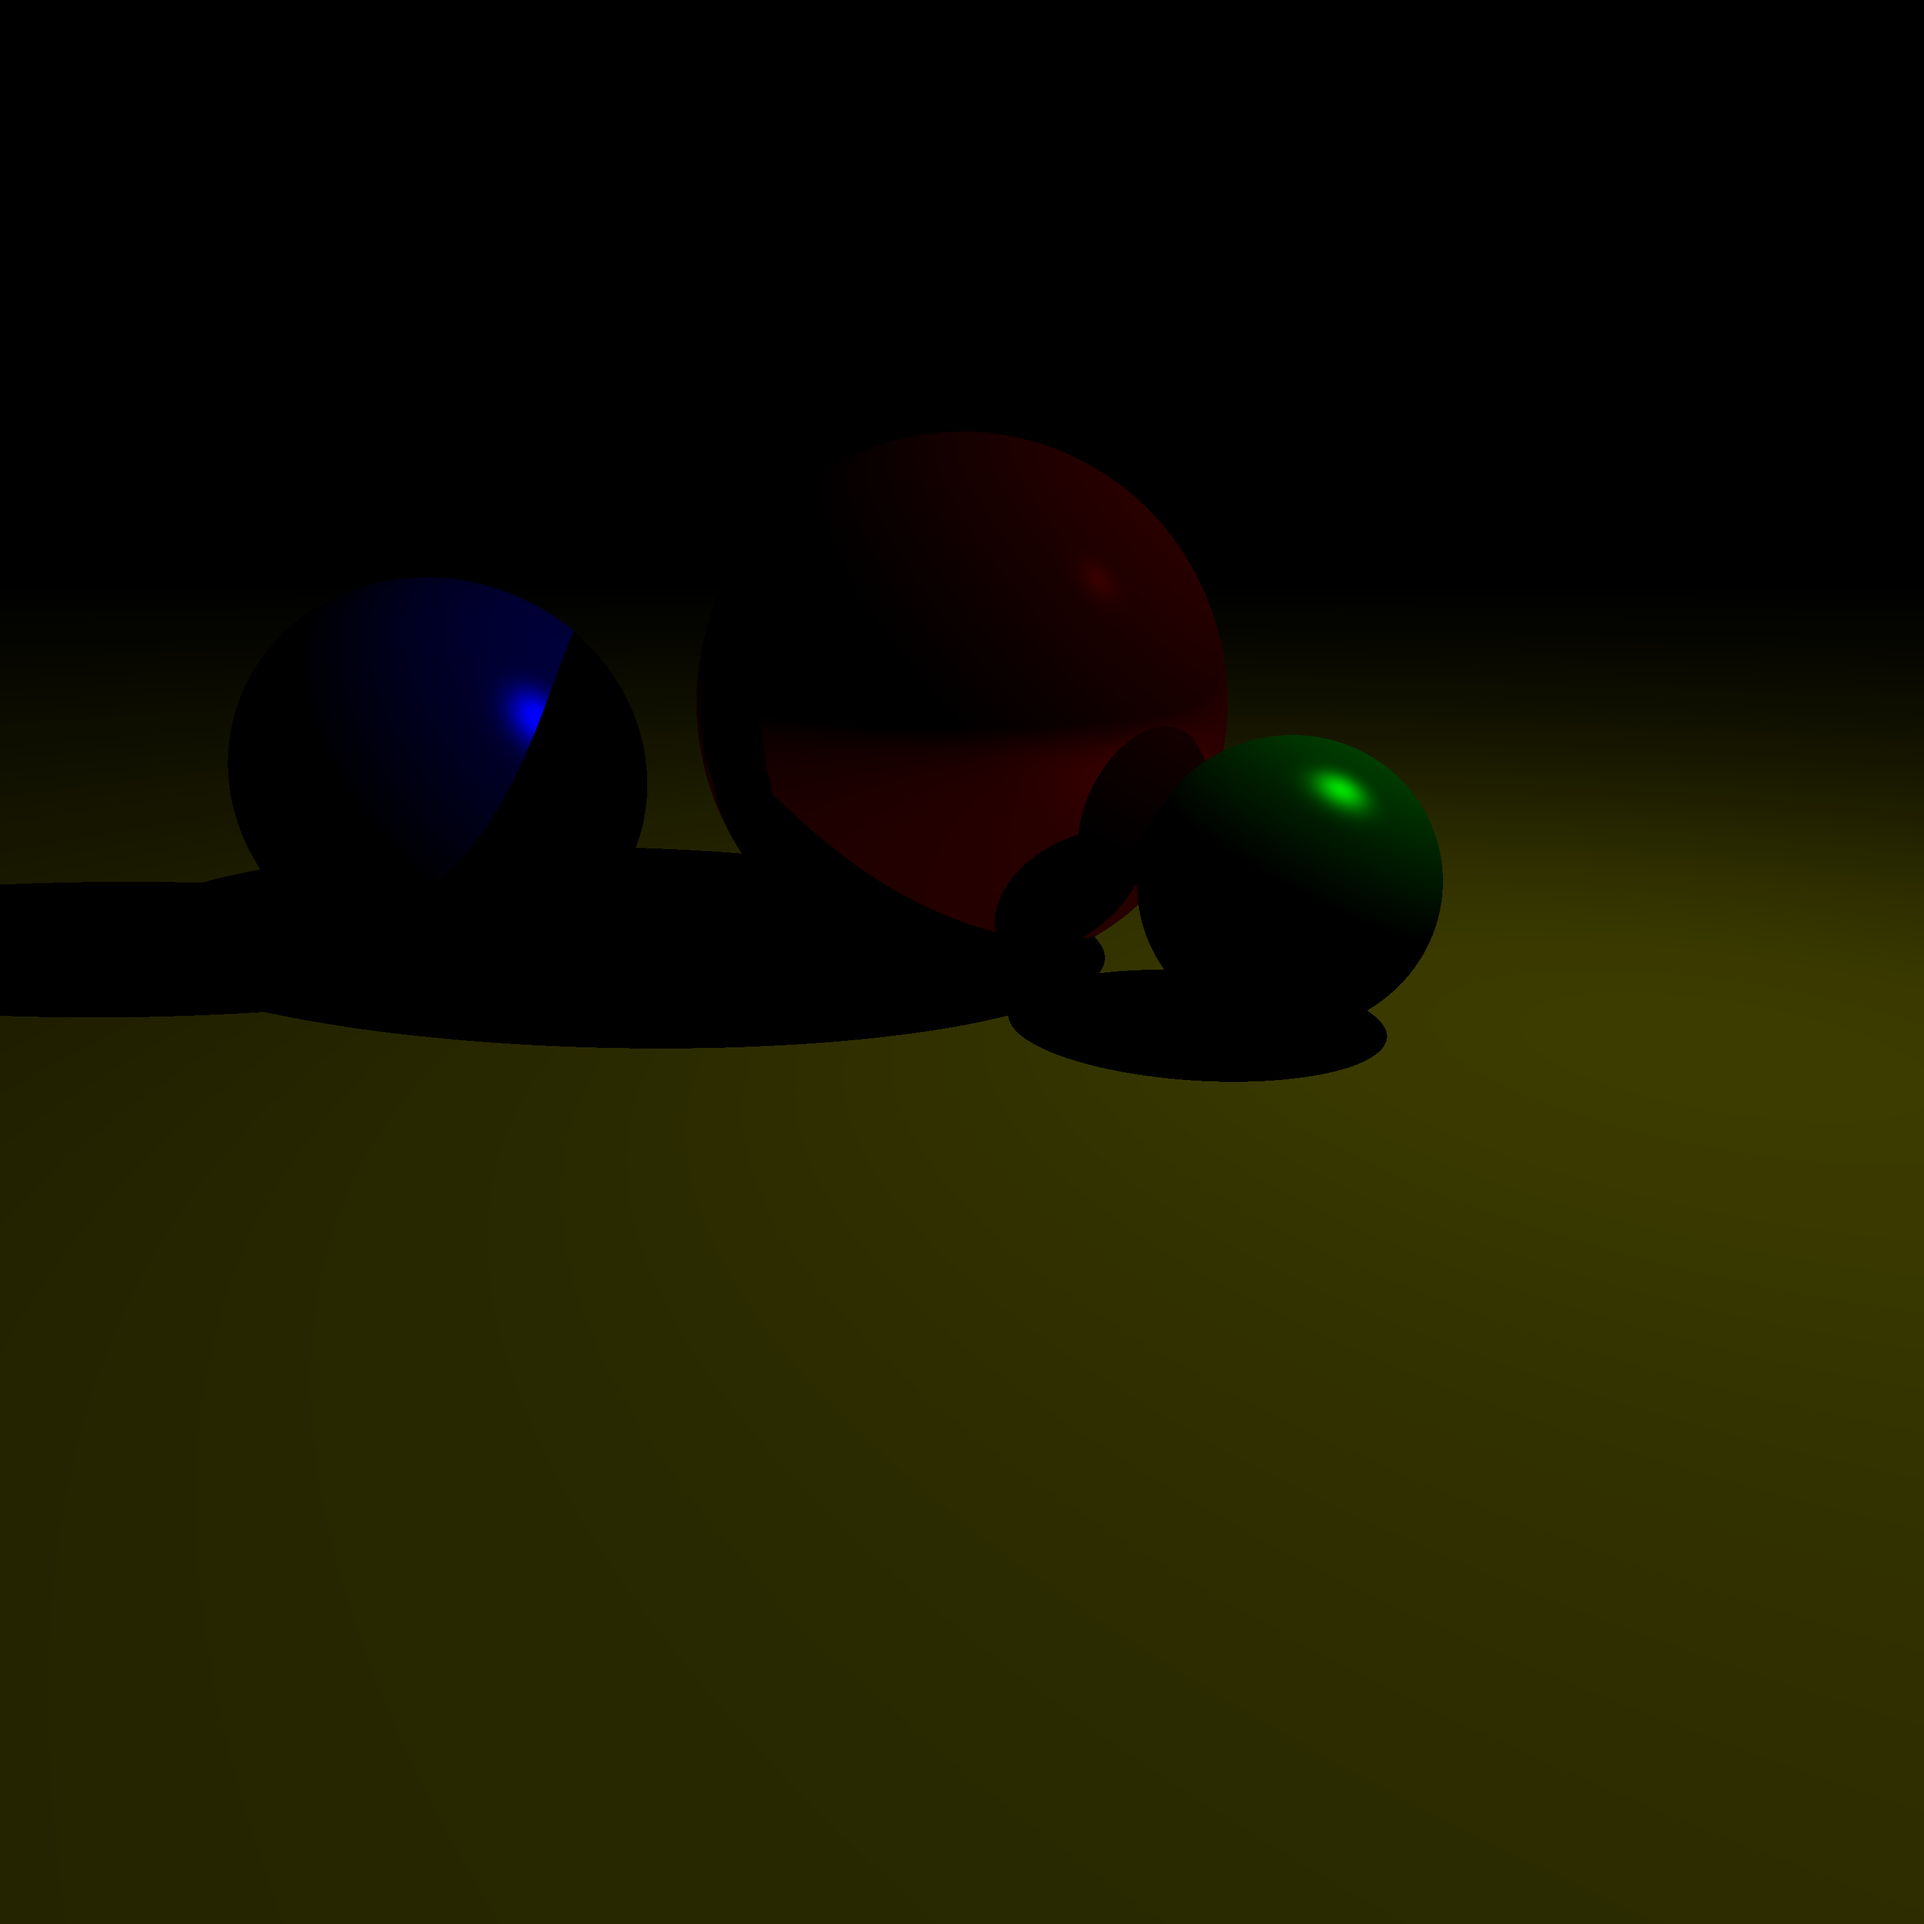
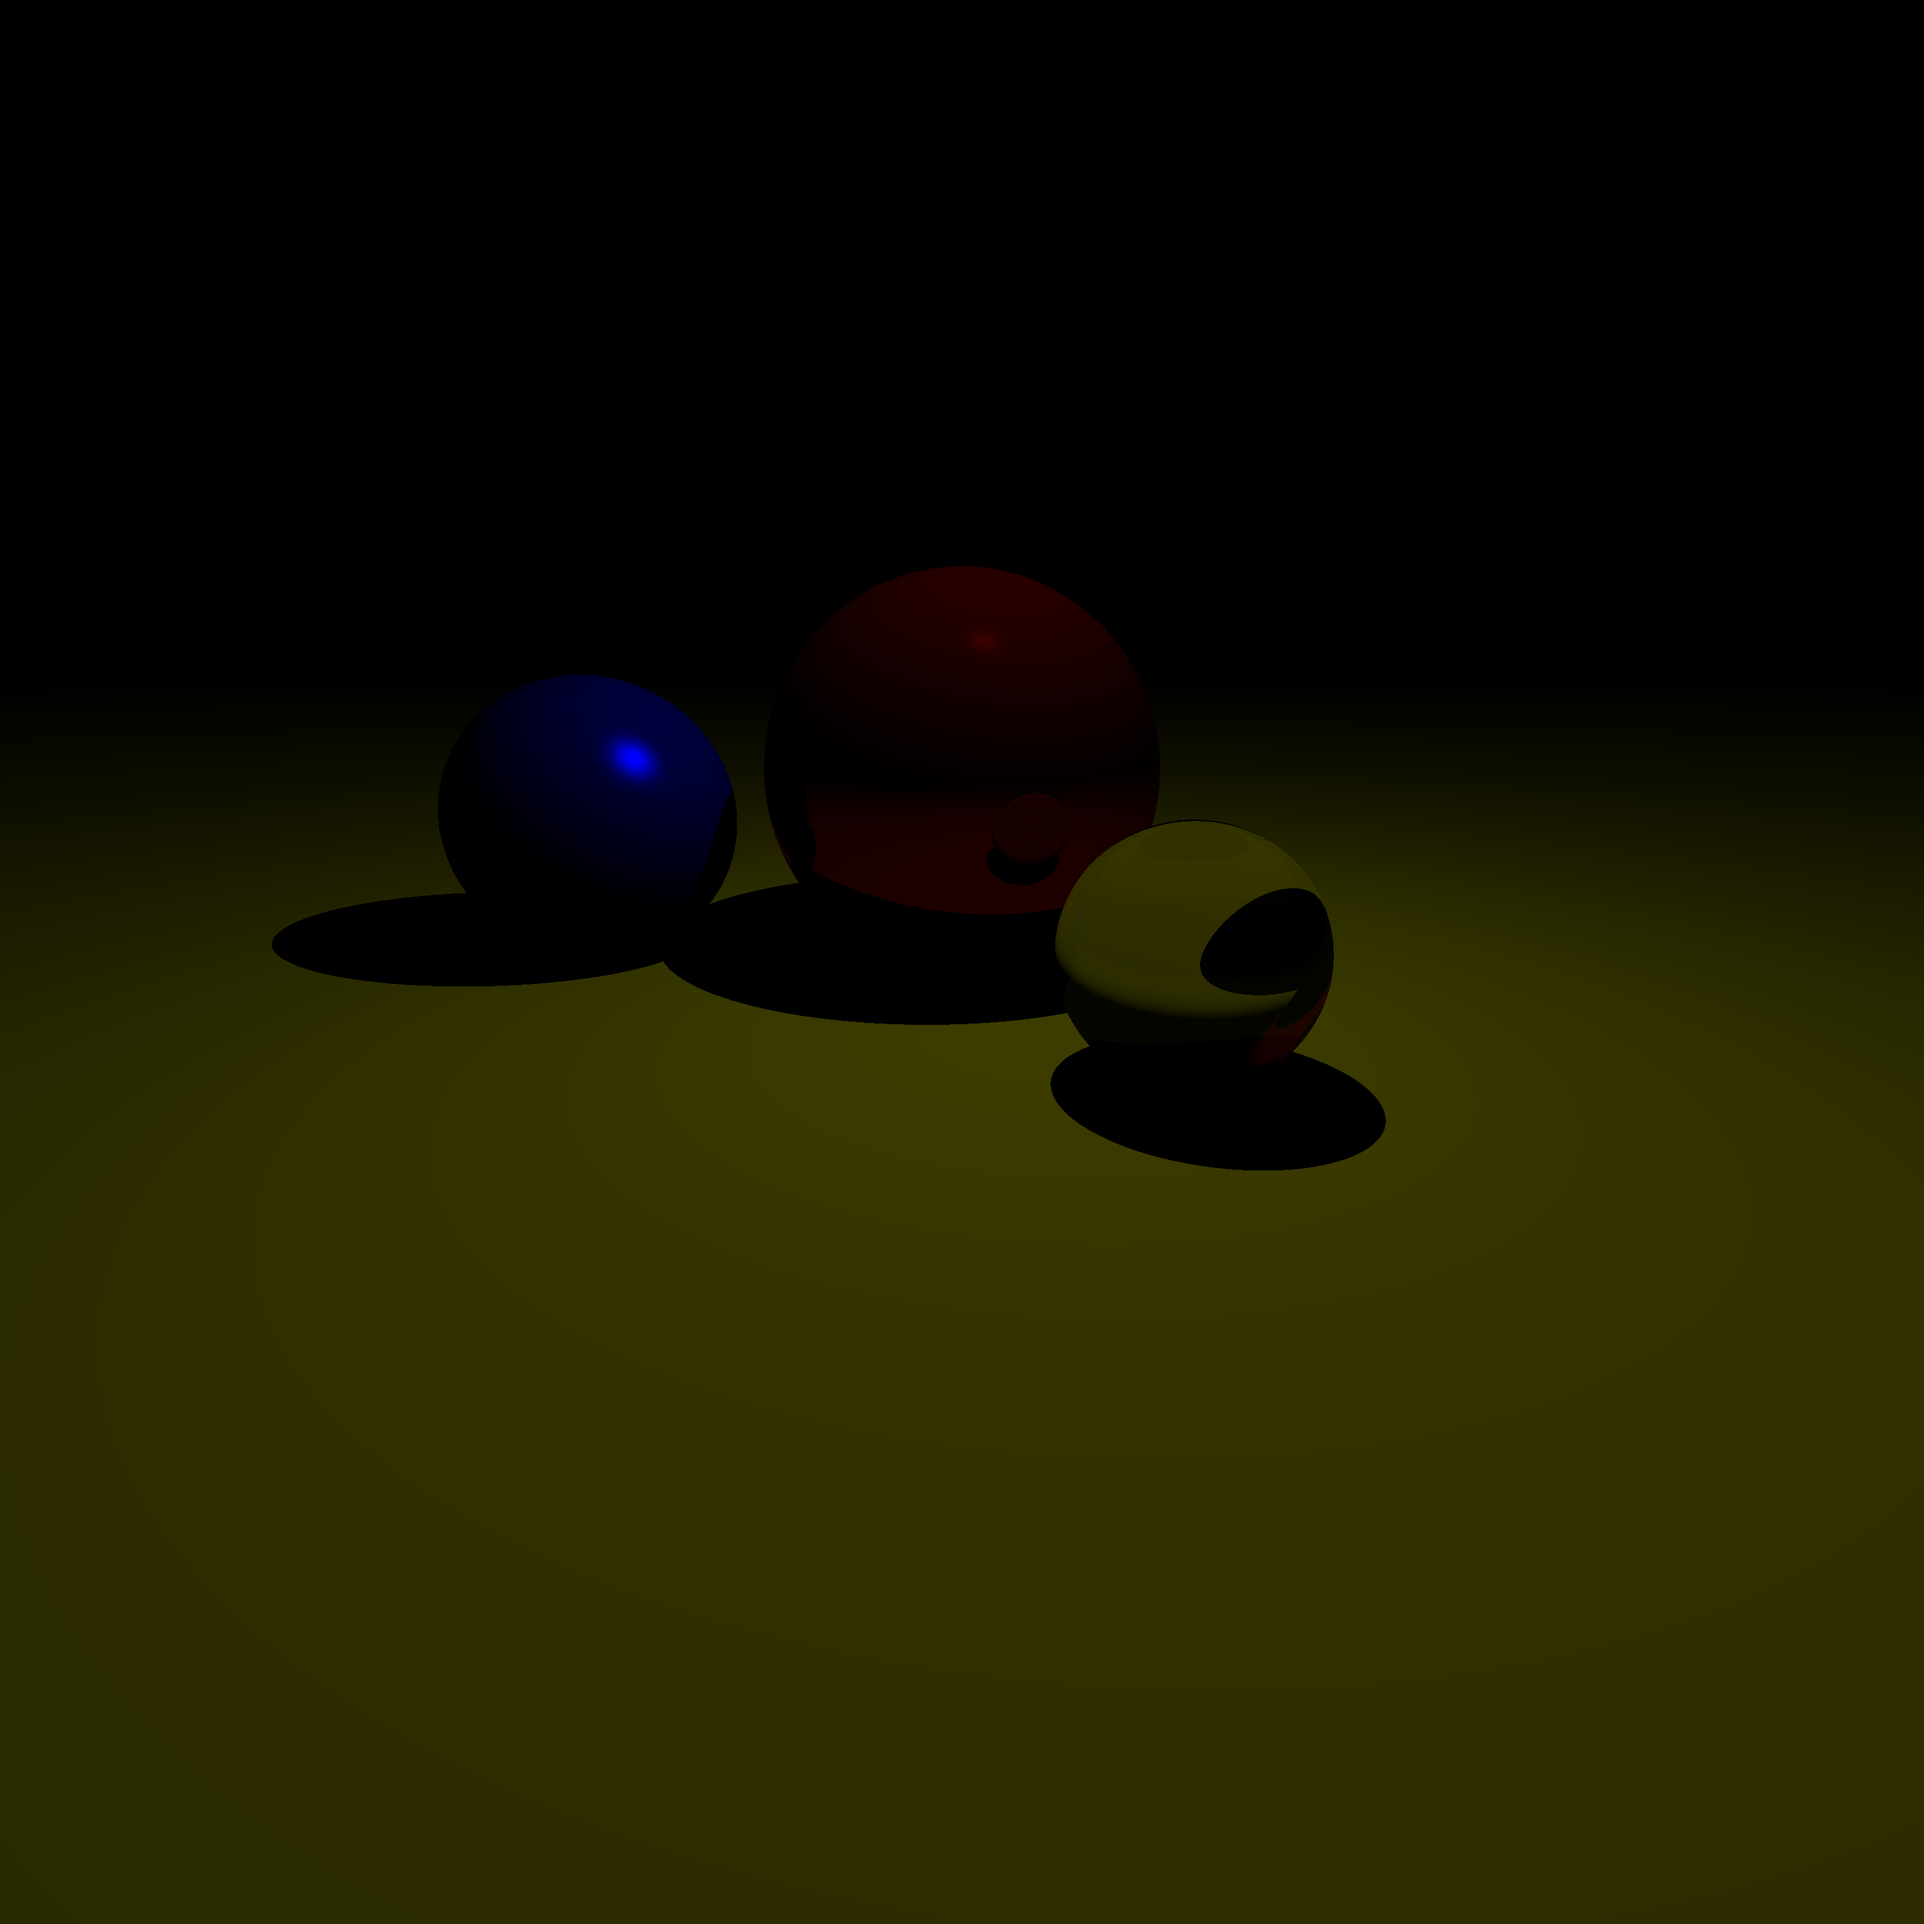
[refraction] finished implementing simple refractions.

Changed region(s): [[0.0, 0.217, 0.775, 0.62]]

diff --git a/src/main/java/ar/edu/itba/gc/world/World.java b/src/main/java/ar/edu/itba/gc/world/World.java
@@ -17,6 +17,7 @@ import ar.edu.itba.gc.light.PointLight;
 import ar.edu.itba.gc.material.Matte;
 import ar.edu.itba.gc.material.Phong;
 import ar.edu.itba.gc.material.Reflective;
+import ar.edu.itba.gc.material.Transparent;
 import ar.edu.itba.gc.primitives.GeometricObject;
 import ar.edu.itba.gc.primitives.Plane;
 import ar.edu.itba.gc.primitives.Sphere;
@@ -50,8 +51,8 @@ public class World {
 	}
 
 	public void build() {
-		camera = new PinholeCamera(new Vector3d(0, 300, 1000), new Vector3d(0,
-				0, 0), new Vector3d(0, 1, 0), 1000.0, 2, 1.0);
+		camera = new PinholeCamera(new Vector3d(100, 300, 1000), new Vector3d(0,
+				0, 0), new Vector3d(0, 1, 0), 1000.0, 1.5, 1.0);
 		camera.computeUVW();
 
 		vp.setHorizontalRes(3000);
@@ -65,17 +66,17 @@ public class World {
 		ambientLight = AmbientLight.black();
 
 		// this.addLight(DirectionalLight.downWhite());
-		this.addLight(new PointLight(1, new Vector3d(500, 700, 200)));
+		this.addLight(new PointLight(1, new Vector3d(100, 700, 200)));
 
 		this.addObject(new Sphere(new Phong(this, 0.25, 0.75, 1, 25,
 				new RGBColor(0, 0, 1), vp.getSampler()), new Vector3d(-400.0,
 				150.0, 0.0), 150.0));
 		this.addObject(new Sphere(new Reflective(this, 0.25, 0.5, 0.15, 100, 0.75, 
-				new RGBColor(1, 0, 0), vp.getSampler(), new RGBColor(1, 0, 0)), new Vector3d(0.0,
+				new RGBColor(1, 0, 0), vp.getSampler(), new RGBColor(0.65, 0, 0)), new Vector3d(0.0,
 				200.0, 0.0), 200.0));
-		this.addObject(new Sphere(new Phong(this, 0.25, 0.75, 1, 25,
-				new RGBColor(0, 1, 0), vp.getSampler()), new Vector3d(220.0,
-				100.0, 150.0), 100.0));
+		this.addObject(new Sphere(new Transparent(this, 0.25, 0.75, 1, 100,
+				new RGBColor(0, 0, 0), vp.getSampler(), 1.5, 0.1, 0.9, RGBColor.white()), new Vector3d(200.0,
+				100.0, 300.0), 100.0));
 		this.addObject(new Plane(new Matte(this, 0.25, 0.75, new RGBColor(1, 1,
 				0), vp.getSampler()), new Vector3d(0.0, 0.0, 0.0),
 				new Vector3d(0, 1, 0)));

diff --git a/src/main/java/ar/edu/itba/gc/material/Transparent.java b/src/main/java/ar/edu/itba/gc/material/Transparent.java
@@ -1,0 +1,63 @@
+package ar.edu.itba.gc.material;
+
+import javax.sound.midi.Transmitter;
+import javax.vecmath.Vector3d;
+
+import ar.edu.itba.gc.sampler.Sampler;
+import ar.edu.itba.gc.util.RGBColor;
+import ar.edu.itba.gc.util.Ray;
+import ar.edu.itba.gc.util.ShadeRec;
+import ar.edu.itba.gc.util.Vectors;
+import ar.edu.itba.gc.world.World;
+
+public class Transparent extends Phong {
+
+	private PerfectSpecular reflectiveBRDF;
+	private PerfectTransmitter specularBTDF;
+
+	public Transparent(World world, 
+			double ka, 
+			double kd, 
+			double ks,
+			double exp, 
+			RGBColor cd, 
+			Sampler sampler, 
+			double ior, 
+			double kr, 
+			double kt, 
+			RGBColor cr) {
+		super(world, ka, kd, ks, exp, cd, sampler);
+		this.reflectiveBRDF = new PerfectSpecular(kr, cr, sampler);
+		this.specularBTDF = new PerfectTransmitter(ior, kt);
+		
+	}
+
+	@Override
+	public RGBColor shade(ShadeRec sr) {
+		RGBColor l = super.shade(sr);
+		Vector3d wo = Vectors.scale(sr.getDirection(), -1);
+		Vector3d wi = new Vector3d();
+		RGBColor fr = reflectiveBRDF.sampleF(sr, wo, wi);
+		Ray reflectedRay = new Ray(sr.getHitPoint(), wi);
+		if (specularBTDF.tir(sr)) {
+			l.sum(sr.getWorld().tracer.traceRay(reflectedRay, sr.getDepth() + 1));
+		} else {
+			Vector3d wt = new Vector3d();
+			RGBColor ft = specularBTDF.sampleF(sr, wo, wt);
+			Ray transmittedRay = new Ray(sr.getHitPoint(), wt);
+			l.sum(RGBColor.mult(
+					RGBColor.mult(
+							fr,
+							sr.getWorld().tracer.traceRay(reflectedRay,
+									sr.getDepth() + 1)),
+					Math.abs(sr.getNormal().dot(wi))));
+			l.sum(RGBColor.mult(
+					RGBColor.mult(
+							ft,
+							sr.getWorld().tracer.traceRay(transmittedRay,
+									sr.getDepth() + 1)),
+					Math.abs(sr.getNormal().dot(wi))));
+		}
+		return l;
+	}
+}

diff --git a/src/main/java/ar/edu/itba/gc/material/PerfectTransmitter.java b/src/main/java/ar/edu/itba/gc/material/PerfectTransmitter.java
@@ -1,0 +1,60 @@
+package ar.edu.itba.gc.material;
+
+import javax.vecmath.Vector3d;
+
+import ar.edu.itba.gc.util.RGBColor;
+import ar.edu.itba.gc.util.ShadeRec;
+import ar.edu.itba.gc.util.Vectors;
+
+public class PerfectTransmitter extends BTDF {
+
+	private double ior;
+	private double kt;
+	
+	
+	
+	public PerfectTransmitter(double ior, double kt) {
+		super();
+		this.ior = ior;
+		this.kt = kt;
+	}
+
+	@Override
+	public RGBColor sampleF(ShadeRec sr, Vector3d wo, Vector3d wt) {
+		Vector3d n = new Vector3d(sr.getNormal());
+		double cosThetai = n.dot(wo);
+		double eta = ior;
+		
+		if (cosThetai < 0) {
+			cosThetai *= -1;
+			n.scale(-1);
+			eta = 1 / eta;
+		}
+		
+		double temp = 1.0 - (1.0 - cosThetai * cosThetai) / (eta * eta);
+		double cosTheta2 = Math.sqrt(temp);
+		Vector3d auxWt = Vectors.sub(Vectors.scale(Vectors.scale(wo, -1), 1 / eta), Vectors.scale(n, cosTheta2 - cosThetai / eta)); 
+		wt.x = auxWt.x;
+		wt.y = auxWt.y;
+		wt.z = auxWt.z;
+		
+		RGBColor resultColor = RGBColor.white();
+		resultColor.mult(kt / (eta * eta));
+		resultColor.divide(Math.abs(sr.getNormal().dot(wt)));
+		return resultColor;
+	}
+
+	@Override
+	public boolean tir(ShadeRec sr) {
+		Vector3d wo = Vectors.scale(sr.getDirection(), -1);
+		double cosThetai = wo.dot(sr.getNormal());
+		double eta = ior;
+		
+		if (cosThetai < 0) {
+			eta = 1 / eta;
+		}
+		
+		return (1.0 - ((1.0 - cosThetai * cosThetai) / (eta * eta))) < 0;
+	}
+
+}

diff --git a/src/main/java/ar/edu/itba/gc/material/BTDF.java b/src/main/java/ar/edu/itba/gc/material/BTDF.java
@@ -1,0 +1,23 @@
+package ar.edu.itba.gc.material;
+
+import javax.vecmath.Vector3d;
+
+import ar.edu.itba.gc.util.RGBColor;
+import ar.edu.itba.gc.util.ShadeRec;
+
+
+public abstract class BTDF {
+	
+	public abstract RGBColor sampleF(ShadeRec sr, Vector3d wo, Vector3d wt);
+
+	public abstract boolean tir(ShadeRec sr);
+
+	RGBColor f(ShadeRec sr, Vector3d wo, Vector3d wt) {
+		return RGBColor.black();
+	}
+	
+	public RGBColor rho() {
+		return RGBColor.black();
+	}
+	
+}

diff --git a/src/main/java/ar/edu/itba/gc/util/RGBColor.java b/src/main/java/ar/edu/itba/gc/util/RGBColor.java
@@ -81,4 +81,10 @@ public class RGBColor {
 		
 	}
 
+	public void divide(double n) {
+		this.r /= n;
+		this.g /= n;
+		this.b /= n;
+	}
+
 }
